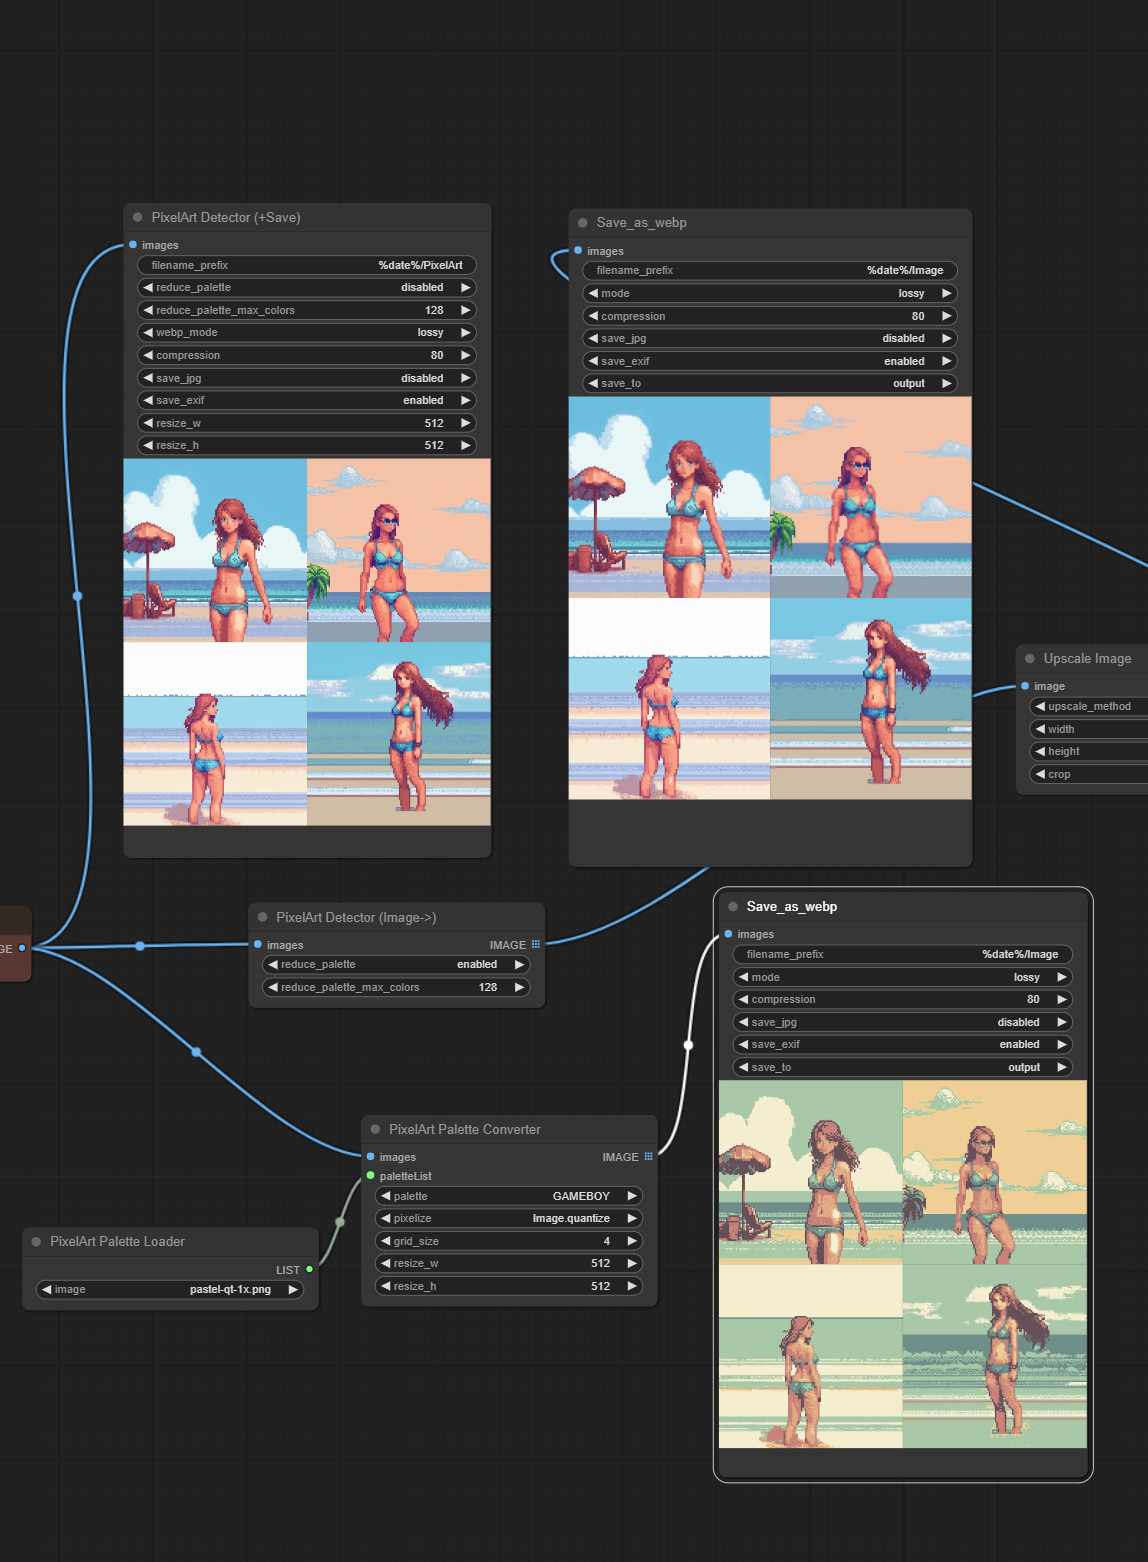
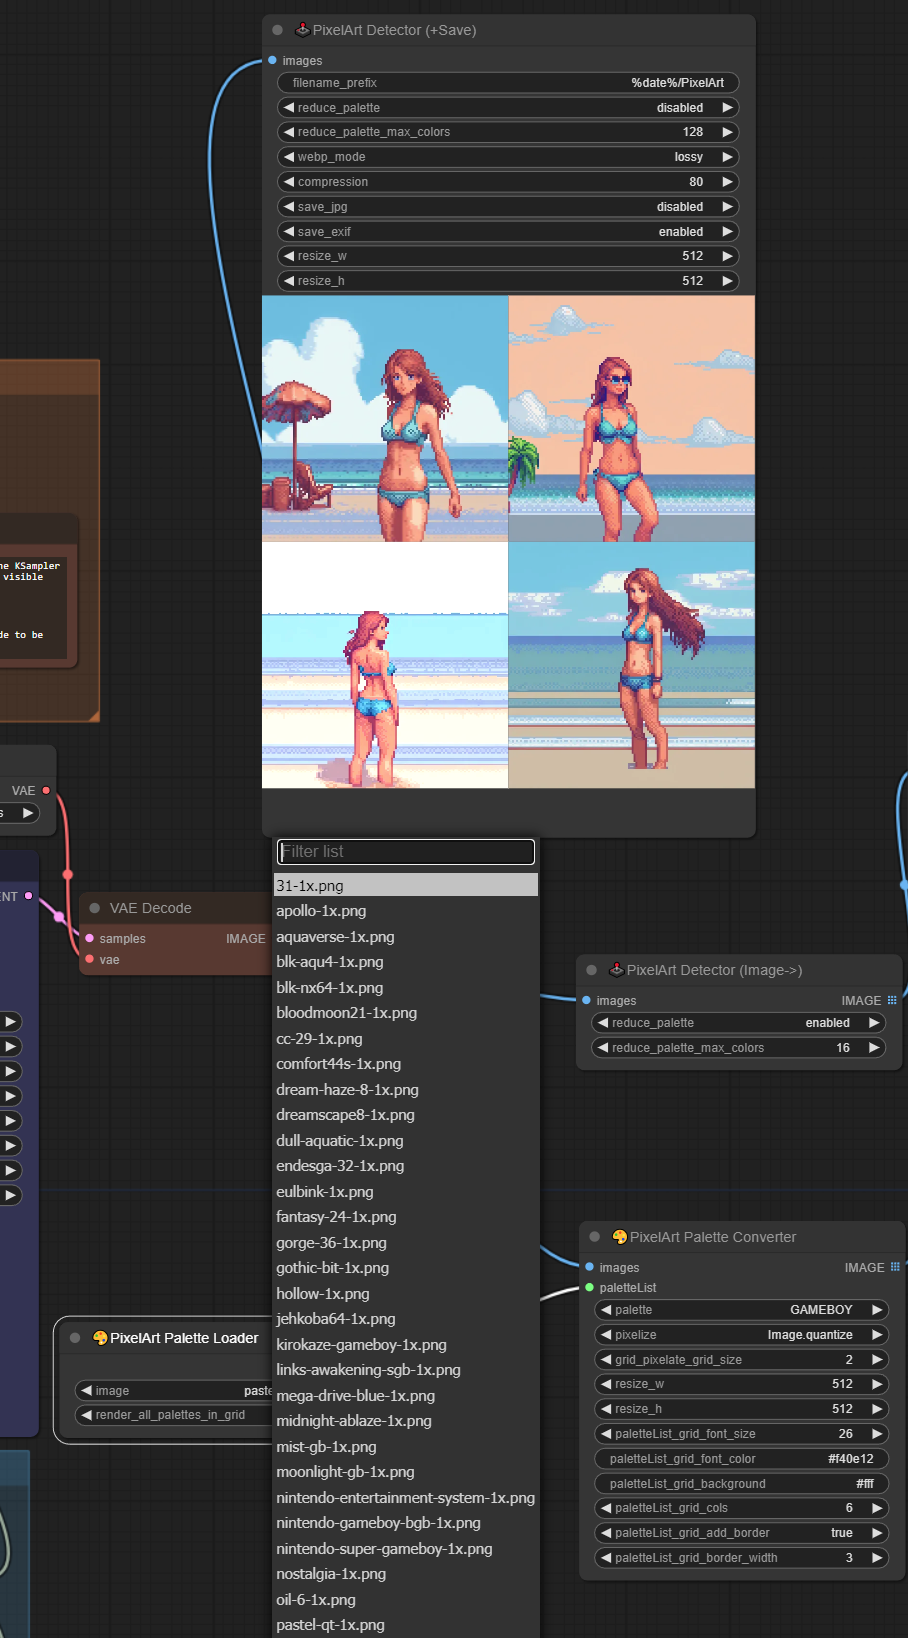
Added grids + more palettes

diff --git a/PixelArtDetector.py b/PixelArtDetector.py
@@ -47,7 +47,7 @@ class PixelArtLoadPalettes(nodes.LoadImage):
     """
     # Set the directory where we get the palettes from
     INPUT_DIR = "1x/"
-    CATEGORY = "image/PixelArt"
+    CATEGORY = "image/PixelArt🕹"
     RETURN_TYPES = ("LIST",)
     RETURN_NAMES = ("paletteList",)
     FUNCTION = "load_image"
@@ -143,7 +143,7 @@ class PixelArtDetectorConverter():
     RETURN_TYPES = ("IMAGE",)
     FUNCTION = "process"
 
-    CATEGORY = "image/PixelArt"
+    CATEGORY = "image/PixelArt🕹"
     OUTPUT_IS_LIST = (True,)
 
     def process(self, images, palette, pixelize, grid_pixelate_grid_size, resize_w, resize_h, paletteList_grid_font_size, paletteList_grid_font_color, paletteList_grid_cols, paletteList_grid_add_border, paletteList_grid_border_width, paletteList_grid_background, paletteList=None):
@@ -221,7 +221,7 @@ class PixelArtDetectorToImage:
     RETURN_TYPES = ("IMAGE",)
     FUNCTION = "process"
 
-    CATEGORY = "image/PixelArt"
+    CATEGORY = "image/PixelArt🕹"
     OUTPUT_IS_LIST = (True,)
 
     def process(self, images, reduce_palette, reduce_palette_max_colors):
@@ -287,7 +287,7 @@ class PixelArtDetectorSave:
     
     OUTPUT_NODE = True
     
-    CATEGORY = "image/PixelArt"
+    CATEGORY = "image/PixelArt🕹"
     
 
     def process(self, images, reduce_palette, reduce_palette_max_colors, filename_prefix, webp_mode , compression, resize_w, resize_h, prompt=None, extra_pnginfo=None, save_jpg="disabled", save_exif="enabled"):
@@ -400,8 +400,8 @@ NODE_CLASS_MAPPINGS = {
     "PixelArtLoadPalettes": PixelArtLoadPalettes,
 }
 NODE_DISPLAY_NAME_MAPPINGS = {
-    "PixelArtDetectorSave": "PixelArt Detector (+Save)",
-    "PixelArtDetectorToImage": "PixelArt Detector (Image->)",
-    "PixelArtDetectorConverter": "PixelArt Palette Converter",
-    "PixelArtLoadPalettes": "PixelArt Palette Loader"
+    "PixelArtDetectorSave": "🕹PixelArt Detector (+Save)",
+    "PixelArtDetectorToImage": "🕹PixelArt Detector (Image->)",
+    "PixelArtDetectorConverter": "🎨PixelArt Palette Converter",
+    "PixelArtLoadPalettes": "🎨PixelArt Palette Loader"
 }

diff --git a/pixelUtils.py b/pixelUtils.py
@@ -28,6 +28,9 @@ def scanFilesInDir(input_dir):
 def getFont(size: int = 10, fontName: str = "Roboto-Regular.ttf"):
     nodes_path = folder_paths.get_folder_paths("custom_nodes")
     font_path = os.path.normpath(os.path.join(nodes_path[0], "ComfyUI-PixelArt-Detector/fonts/", fontName))
+    if not os.path.exists(font_path):
+        print(f"ERROR: {fontName} NOT FOUND!")
+        return ImageFont.load_default()
     return ImageFont.truetype(str(font_path), size=size)
 
 def transformPalette(palette: list, output: str = "image"):

diff --git a/README.md b/README.md
@@ -1,4 +1,4 @@
-# ComfyUI PixelArt Detector v1.0
+# ComfyUI PixelArt Detector v1.1
 Generate, downscale, change palletes and restore pixel art images with SDXL.
 
 ![](./examples/Image_00135_.webp) ![](./examples/Image_00157_.webp) ![](./examples/Image_00162_.webp) ![](./examples/Image_00165_.webp) ![](./examples/Image_00166_.webp)
@@ -15,7 +15,7 @@ This adds 4 custom nodes:
 * __PixelArt Detector (+Save)__ - this node is All in One reduce palette, resize, saving image node
 * __PixelArt Detector (Image->)__ - this node will downscale and reduce the palette and forward the image to another node
 * __PixelArt Palette Converter__ - this node will change the palette of your input. There are a couple of embedded palettes. Use the Palette Loader for more
-* __PixelArt Palette Loader__ - this node comes with a lot of custom palettes which can be an input to the PixelArt Palette Converter "paletteList" input
+* __PixelArt Palette Loader__ - this node comes with a lot of custom palettes which can be an input to the PixelArt Palette Converter "paletteList" input. Optional GRIDS preview of all palettes
 
 The plugin also adds a script to Comfy to drag and drop generated webp|jpeg files into the UI to load the workflows.
 
@@ -56,7 +56,7 @@ There is an option to save a JPEG alongside the webp file.
 
 ### Extra info about the "PixelArt Palette Converter" Node:
 
-The grid_size option is for the pixelize grid.Pixelate option. Size of 1 is pixel by pixel. Very slow. Increazing the size improves speed but kills quality. Experiment or not use that option.
+The grid_pixelate_grid_size option is for the pixelize grid.Pixelate option. Size of 1 is pixel by pixel. Very slow. Increazing the size improves speed but kills quality. Experiment or not use that option.
 
 ### Extra info about the "PixelArt Palette Converter" and "PixelArt Palette Loader" Nodes:
 
@@ -67,10 +67,13 @@ Included palettes from: https://lospec.com/palette-list
 
 **GRIDS**
 
-* Install https://github.com/LEv145/images-grid-comfy-plugin
+* Connect the __PixelArt Palette Loader__ to the __PixelArt Palette Converter__ or use the "grid.json" file and drag&drop into ComfyUI
 * enable the render_all_palettes_in_grid
-* check my workflow: 
+* "Load Preview"
+* play with the settings
 
+![Grids](./examples/grids_example.PNG)
+![Grids](./grid.png)
 
 Here are some examples:
 
